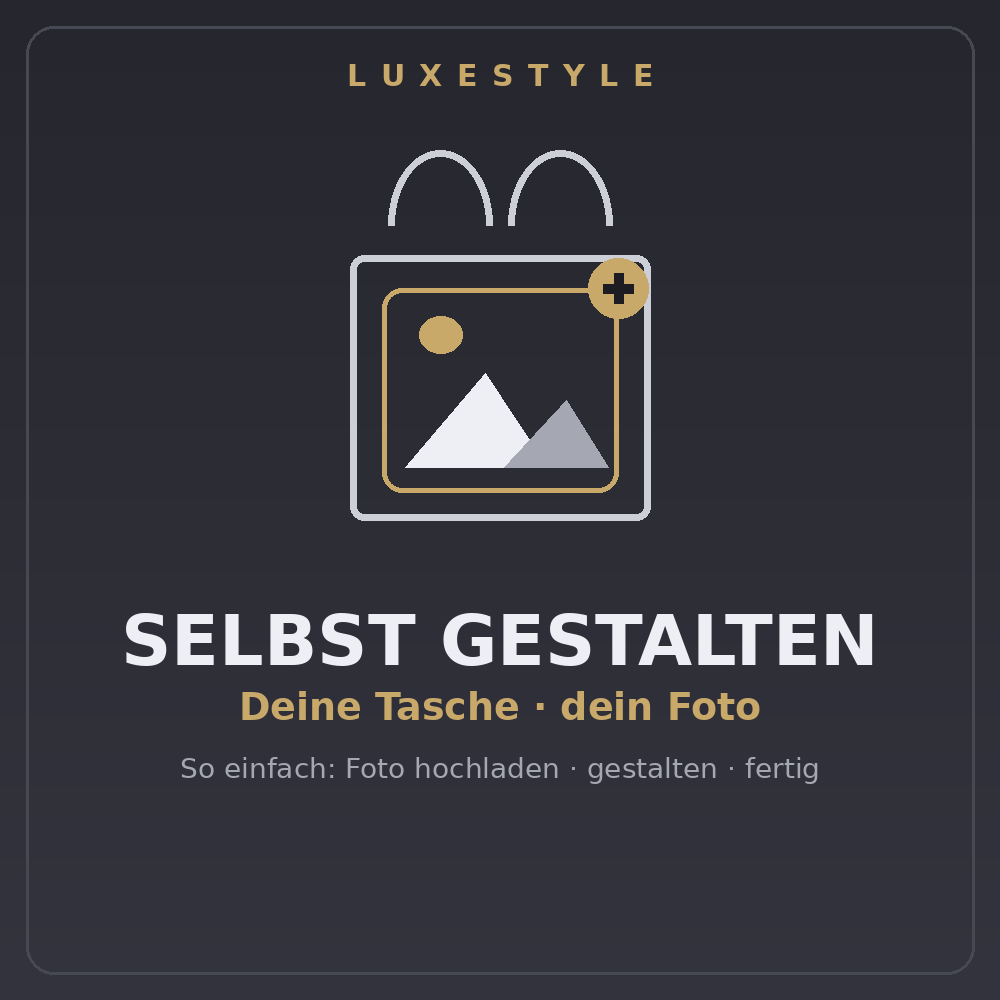
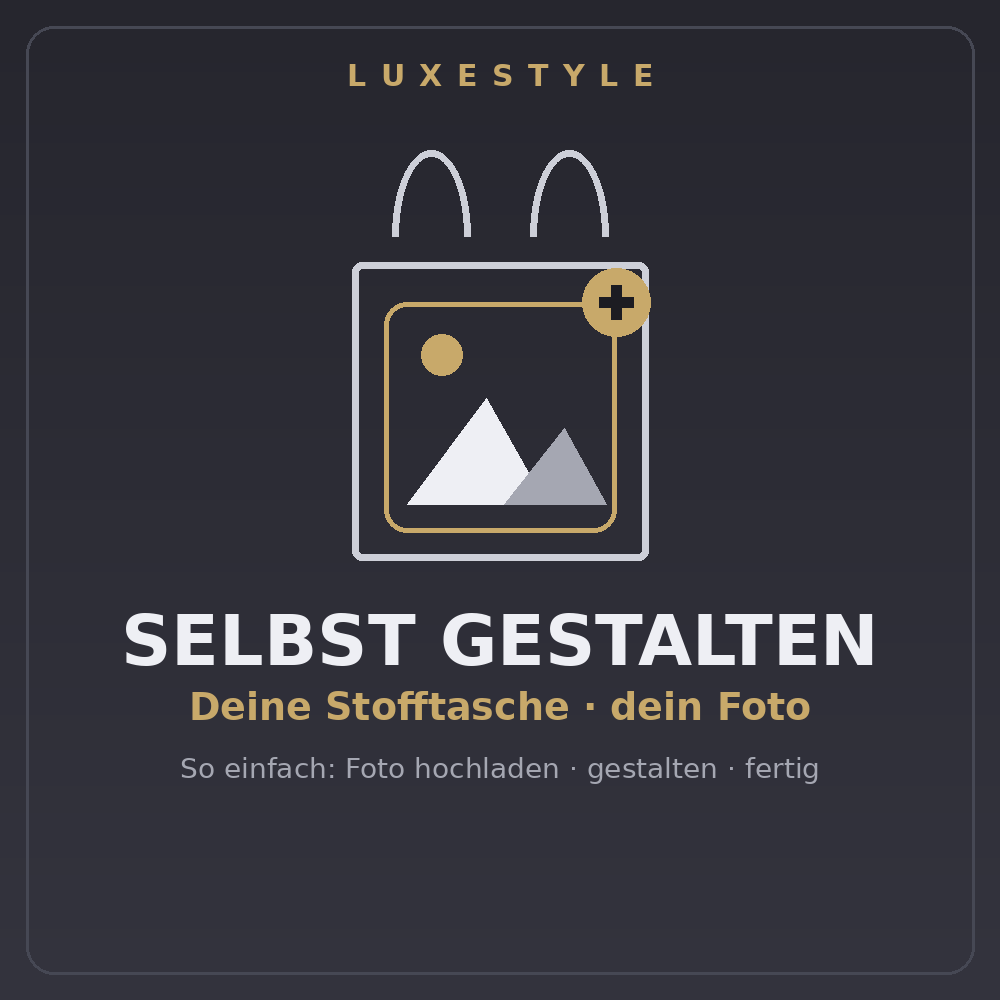
Tote eindeutig als Stofftasche: Label + klarere flache Beutelform
'Deine Tasche' -> 'Deine Stofftasche', Silhouette flacher/eckiger mit langen Henkeln
(war als Shopping-/Geschenkbeutel missverstaendlich). Marketing- + Editor-Vorlage.

https://claude.ai/code/session_01Y9ktMaMNLMu9xnNibXbqrT

Changed region(s): [[0.341, 0.155, 0.651, 0.558], [0.186, 0.682, 0.806, 0.744]]

diff --git a/automation/gen_personalized_previews.py b/automation/gen_personalized_previews.py
@@ -10,7 +10,7 @@ OUT="pod/personalized"; os.makedirs(OUT, exist_ok=True)
 S=1000
 GOLD=(200,169,106); WHITE=(238,239,244); MUT=(165,167,178); LINE=(205,207,216); DARKP=(28,28,34)
 
-LABELS={"tasse":"Deine Tasse","shirt":"Dein T-Shirt","kissen":"Dein Kissen","tote":"Deine Tasche",
+LABELS={"tasse":"Deine Tasse","shirt":"Dein T-Shirt","kissen":"Dein Kissen","tote":"Deine Stofftasche",
         "poster":"Dein Poster","magnet":"Dein Magnet","mousepad":"Dein Mauspad","buegeltransfer":"Dein Bügeltransfer"}
 
 def font(b,sz): return ImageFont.truetype(FONTB if b else FONT, sz)
@@ -50,10 +50,10 @@ def sil_kissen(d):
         d.ellipse([cx-9,cy-9,cx+9,cy+9],fill=LINE)
     photo_ph(d,360,255,640,475)
 def sil_tote(d):
-    d.rounded_rectangle([350,255,650,520],radius=14,outline=LINE,width=7)           # Beutel
-    d.arc([388,150,492,300],start=180,end=360,fill=LINE,width=7)                    # Henkel links
-    d.arc([508,150,612,300],start=180,end=360,fill=LINE,width=7)                    # Henkel rechts
-    photo_ph(d,382,288,618,492)
+    d.rounded_rectangle([352,262,648,560],radius=10,outline=LINE,width=7)           # Stoffbeutel (flach, eckig)
+    d.arc([392,150,470,322],start=180,end=360,fill=LINE,width=7)                    # Henkel links (schmal, lang)
+    d.arc([530,150,608,322],start=180,end=360,fill=LINE,width=7)                    # Henkel rechts
+    photo_ph(d,384,302,616,532)
 def sil_poster(d):
     d.rectangle([385,180,615,520],outline=LINE,width=7)                             # Rahmen
     d.line([500,150,500,180],fill=LINE,width=5); d.ellipse([493,143,507,157],outline=LINE,width=4)  # Aufhänger

diff --git a/automation/gen_designer_templates.py b/automation/gen_designer_templates.py
@@ -33,9 +33,9 @@ def t_shirt():
     da=[440,345,610,575]; dashed(d,da); hint(d,da); return img
 def t_tote():
     img,d=base()
-    d.rounded_rectangle([320,300,680,640],radius=16,fill=PROD,outline=EDGE,width=6)
-    d.arc([372,180,512,360],180,360,fill=EDGE,width=12); d.arc([488,180,628,360],180,360,fill=EDGE,width=12)
-    da=[370,350,630,600]; dashed(d,da); hint(d,da); return img
+    d.rounded_rectangle([330,310,670,660],radius=10,fill=PROD,outline=EDGE,width=6)
+    d.arc([388,180,478,362],180,360,fill=EDGE,width=10); d.arc([522,180,612,362],180,360,fill=EDGE,width=10)
+    da=[372,360,628,620]; dashed(d,da); hint(d,da); return img
 def t_kissen():
     img,d=base()
     d.rounded_rectangle([250,250,750,750],radius=60,fill=PROD,outline=EDGE,width=6)
